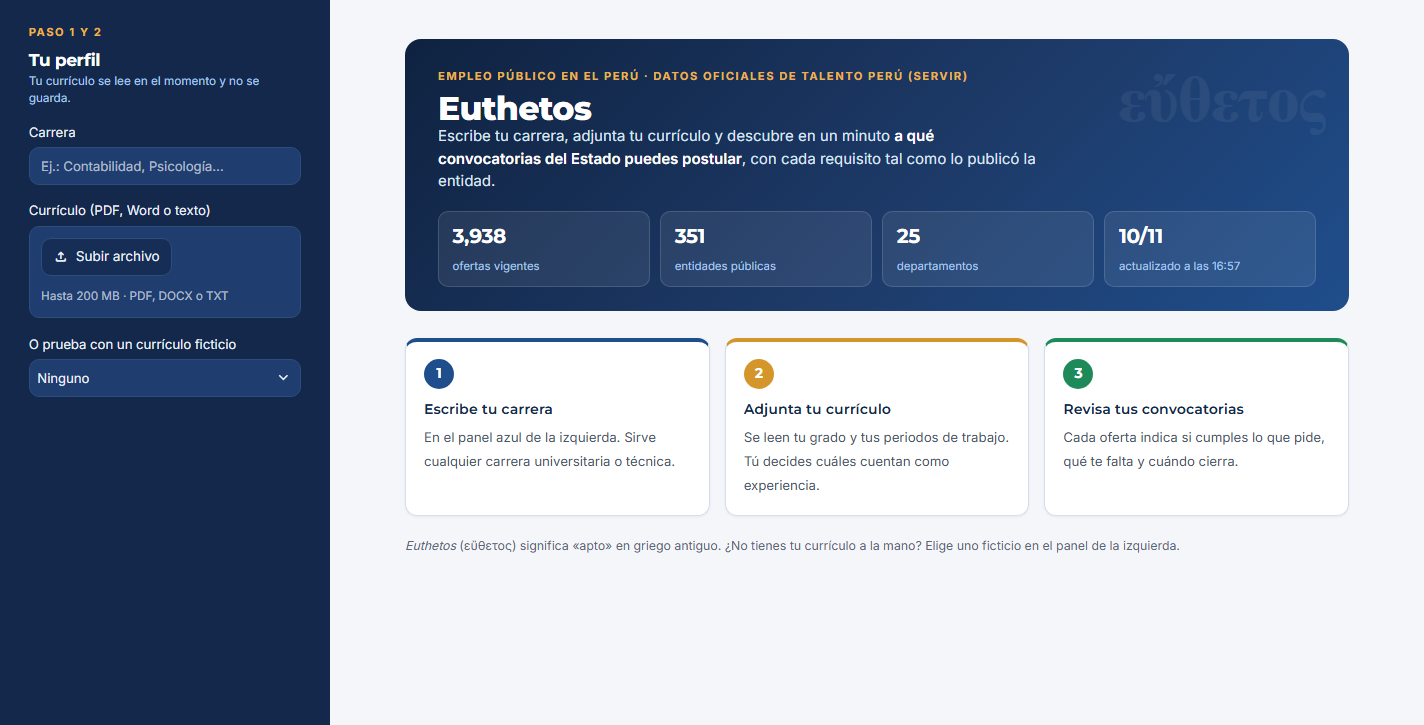
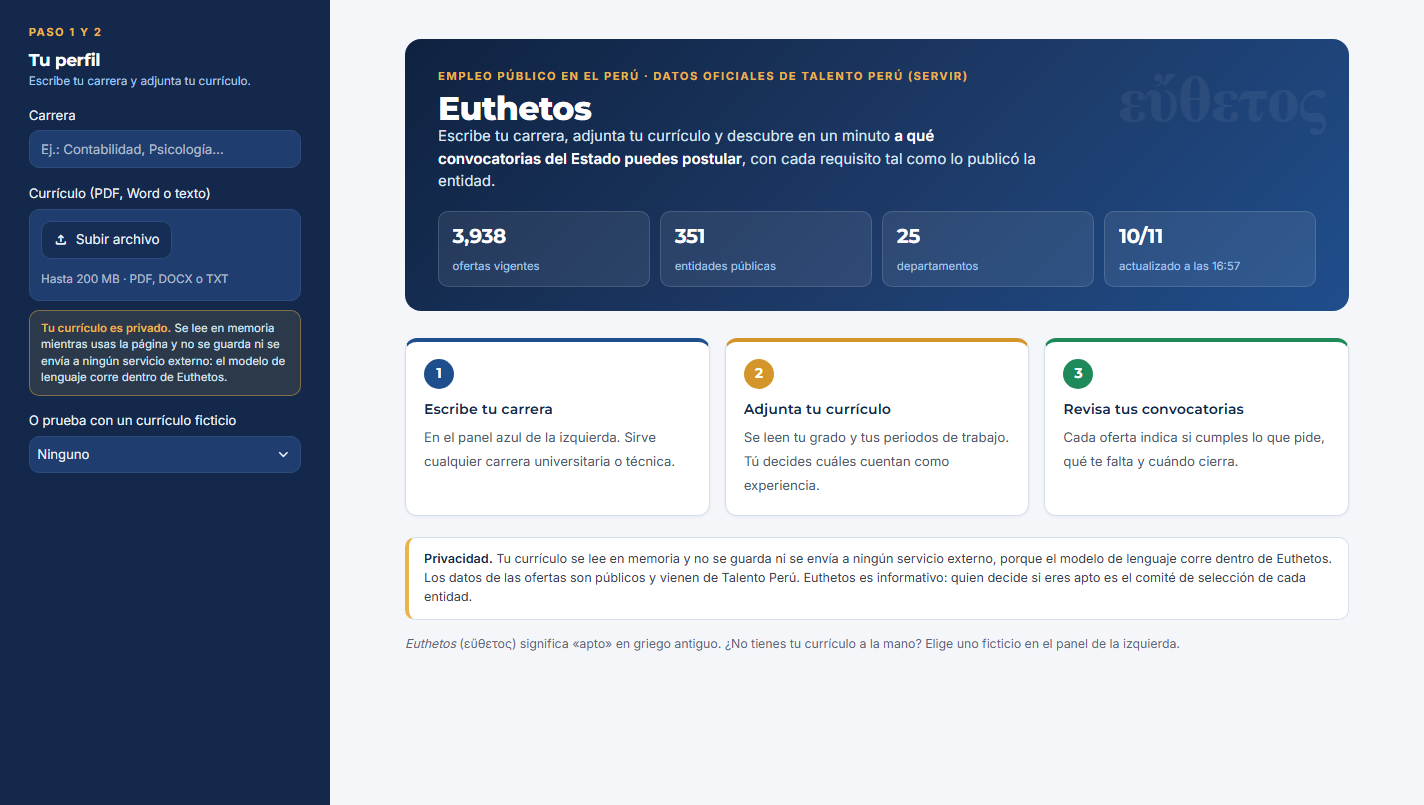
README: foto del fundador, tabla de competencia, filtros nuevos y capturas actualizadas

diff --git a/README.md b/README.md
@@ -21,7 +21,7 @@ Para probarla sin un currículo propio: [enfermera](https://euthetos.streamlit.a
 
 | 1. Escribe tu carrera y adjunta tu currículo | 2. Confirma tu experiencia | 3. Revisa tus convocatorias |
 |---|---|---|
-| Cualquier carrera, universitaria o técnica. El currículo puede estar en PDF, Word o texto, y no se guarda. | Euthetos muestra cada periodo de trabajo que leyó del currículo; se desmarcan los que no pueden acreditarse. | Las ofertas se separan en **cumples lo medible**, **conviene revisar** y **te falta un requisito**, con el motivo y el texto literal de cada requisito. |
+| Cualquier carrera, universitaria o técnica. El currículo puede estar en PDF, Word o texto, y no se guarda. | Euthetos muestra cada periodo de trabajo que leyó del currículo; se desmarcan los que no pueden acreditarse. | Las ofertas se separan en **cumples lo medible**, **conviene revisar** y **te falta un requisito**, con el motivo y el texto literal de cada requisito. Se pueden filtrar por palabra, departamento, régimen laboral y sueldo. |
 
 **Resultados para una enfermera ficticia:** sus periodos de trabajo, el resumen de resultados y dónde están sus oportunidades.
 
@@ -57,6 +57,8 @@ requisitos de **todas las ofertas vigentes de Talento Perú**, desde el régimen
 
 ## 2. Fundador (*founder*)
 
+<img src="docs/img/fundador.jpg" alt="Frank Pinares Gutiérrez" width="140" align="left" style="margin-right:16px">
+
 Frank Pinares Gutiérrez es licenciado en Ciencia Política y Gobierno por la Pontificia Universidad Católica del
 Perú (2026) y cursa la Diplomatura de Especialización en Ciencia de Datos para las Ciencias Sociales y la Gestión
 Pública (Q-Lab PUCP).
@@ -66,6 +68,8 @@ problema: revisar convocatoria por convocatoria si se cumplen los requisitos, pa
 final de la lectura, que alguno no se cumple. Antes de Euthetos, el autor ya había construido para su propia
 búsqueda un buscador diario de convocatorias y un preparador de postulaciones, y de ellos proviene la experiencia
 con el portal de Talento Perú en la que se apoya el presente proyecto.
+
+<br clear="left">
 
 ## 3. Problema
 
@@ -114,7 +118,8 @@ compara cada oferta vigente y la ubica en uno de tres grupos:
   colegiatura, posgrado o un texto poco claro).
 - **Te falta un requisito:** sirve para saber qué separa a la persona de cada puesto.
 
-Dentro de cada grupo, primero aparecen las ofertas que nombran la carrera y luego las más parecidas al currículo.
+Dentro de cada grupo, primero aparecen las ofertas que nombran la carrera y luego las más parecidas al currículo, y
+la lista puede acotarse con un buscador de palabras y con filtros por departamento, régimen laboral y sueldo mínimo.
 Cada oferta muestra por qué quedó en su grupo, el texto literal publicado por la entidad y el enlace a sus bases.
 
 **Idea clave.** Talento Perú ya publica los requisitos separados en secciones, de manera que lo medible puede leerse
@@ -234,16 +239,22 @@ autor y con revisiones manuales en cada etapa:
 | `reglas.py` y pruebas | Escribió las reglas y 17 pruebas con textos reales | Revisó los resultados en la aplicación |
 | `cv.py` | Escribió la lectura del currículo | Detectó que sumaba periodos no acreditables; de ahí salió la tabla de periodos que la persona confirma |
 | `emparejar.py` | Llevó la búsqueda por significado de la Sesión 08 a las ofertas | — |
-| `app.py` | Escribió la interfaz y tres rediseños | Pidió una interfaz sin emojis y más profesional, luego con más color (inspirada en los portafolios del curso), letra más pequeña y un panel fijo |
+| `app.py` | Escribió la interfaz y tres rediseños; revisó los otros proyectos del issue y propuso ideas | Pidió una interfaz sin emojis y más profesional, luego con más color (inspirada en los portafolios del curso), letra más pequeña y un panel fijo; de las ideas tomadas de otros proyectos, aprobó el buscador, los filtros por régimen, el aviso de privacidad y la tabla de competencia |
 | README | Redactó el borrador y calculó sus cifras | Pidió mejorarlo, cuestionó el precio inicial (de ahí el precio por etapas) y pidió reemplazar los términos en inglés |
 | Conversaciones con usuarios | Escribió la guía de preguntas | Hizo las conversaciones |
 
 ## 10. Competencia, primeros usuarios, hoja de ruta y riesgos
 
-**Competencia.** Las ofertas del Estado se buscan hoy en el propio Talento Perú y en portales que las reúnen, como
-convocatoriasdetrabajo.com o yaempleo.net. En los portales revisados para este proyecto, la búsqueda es por
-palabras o por entidad, y la verificación de los requisitos queda siempre a cargo de la persona. Euthetos no
-compite por tener más ofertas, sino por responder la pregunta que esos portales dejan abierta: *¿puedo postular?*
+**Competencia.** Euthetos no compite por tener más ofertas, sino por responder la pregunta que las alternativas
+actuales dejan abierta: *¿puedo postular?*
+
+| Alternativa | Qué ofrece | Por qué no basta |
+|---|---|---|
+| Revisar las ofertas a mano | Control total sobre lo que se lee | Hay que abrir y leer cada detalle: entre 5 y 179 avisos por cada uno que sirve, según el perfil |
+| Buscador de Talento Perú | Todas las ofertas del Estado, en el portal oficial | Encuentra la frase literal que se escribe en el perfil, diez ofertas por página, y no dice si se cumplen los requisitos |
+| Portales que reúnen convocatorias (convocatoriasdetrabajo.com, yaempleo.net) | Ofertas de varias fuentes y enlaces a las bases | La búsqueda es por palabras o por entidad; la verificación de los requisitos queda a cargo de la persona |
+| Bolsas de trabajo privadas (Bumeran, Computrabajo) | Buscadores con filtros y alertas | Se centran en el sector privado y tampoco comparan el currículo con los requisitos |
+| **Euthetos** | **Todas las ofertas vigentes de Talento Perú, comparadas con el perfil de la persona** | Aún no lee las bases en PDF ni sabe qué carreras son afines (ver la hoja de ruta) |
 
 **Primeros usuarios.** Compañeros de la diplomatura y de la facultad que buscan empleo público, grupos de egresados
 y una oficina de empleabilidad universitaria para el piloto gratuito.
